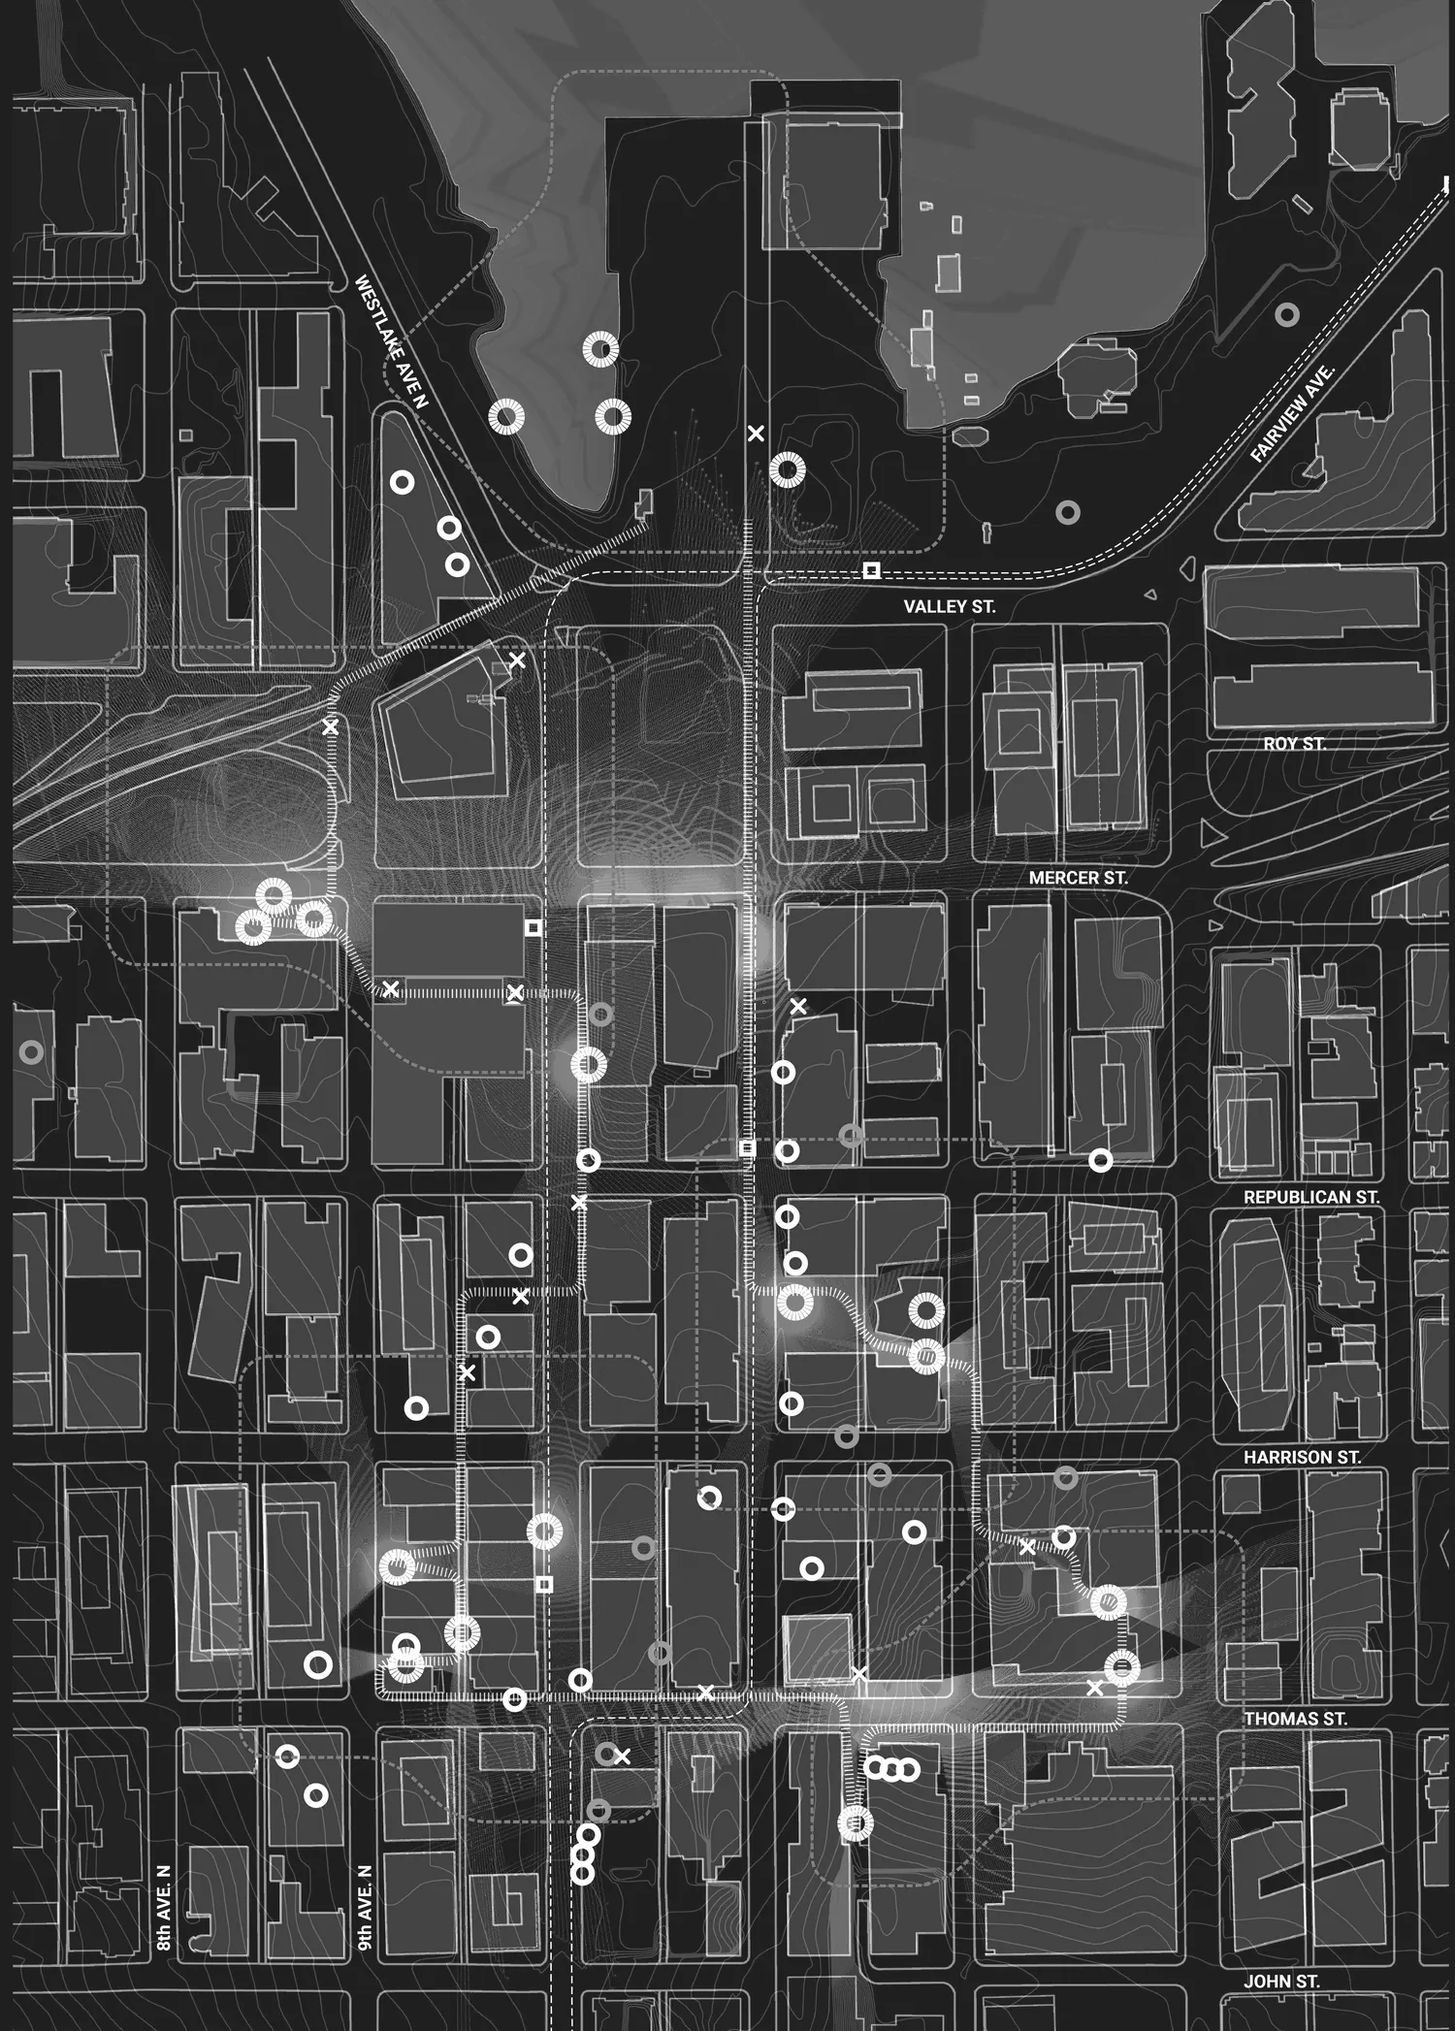
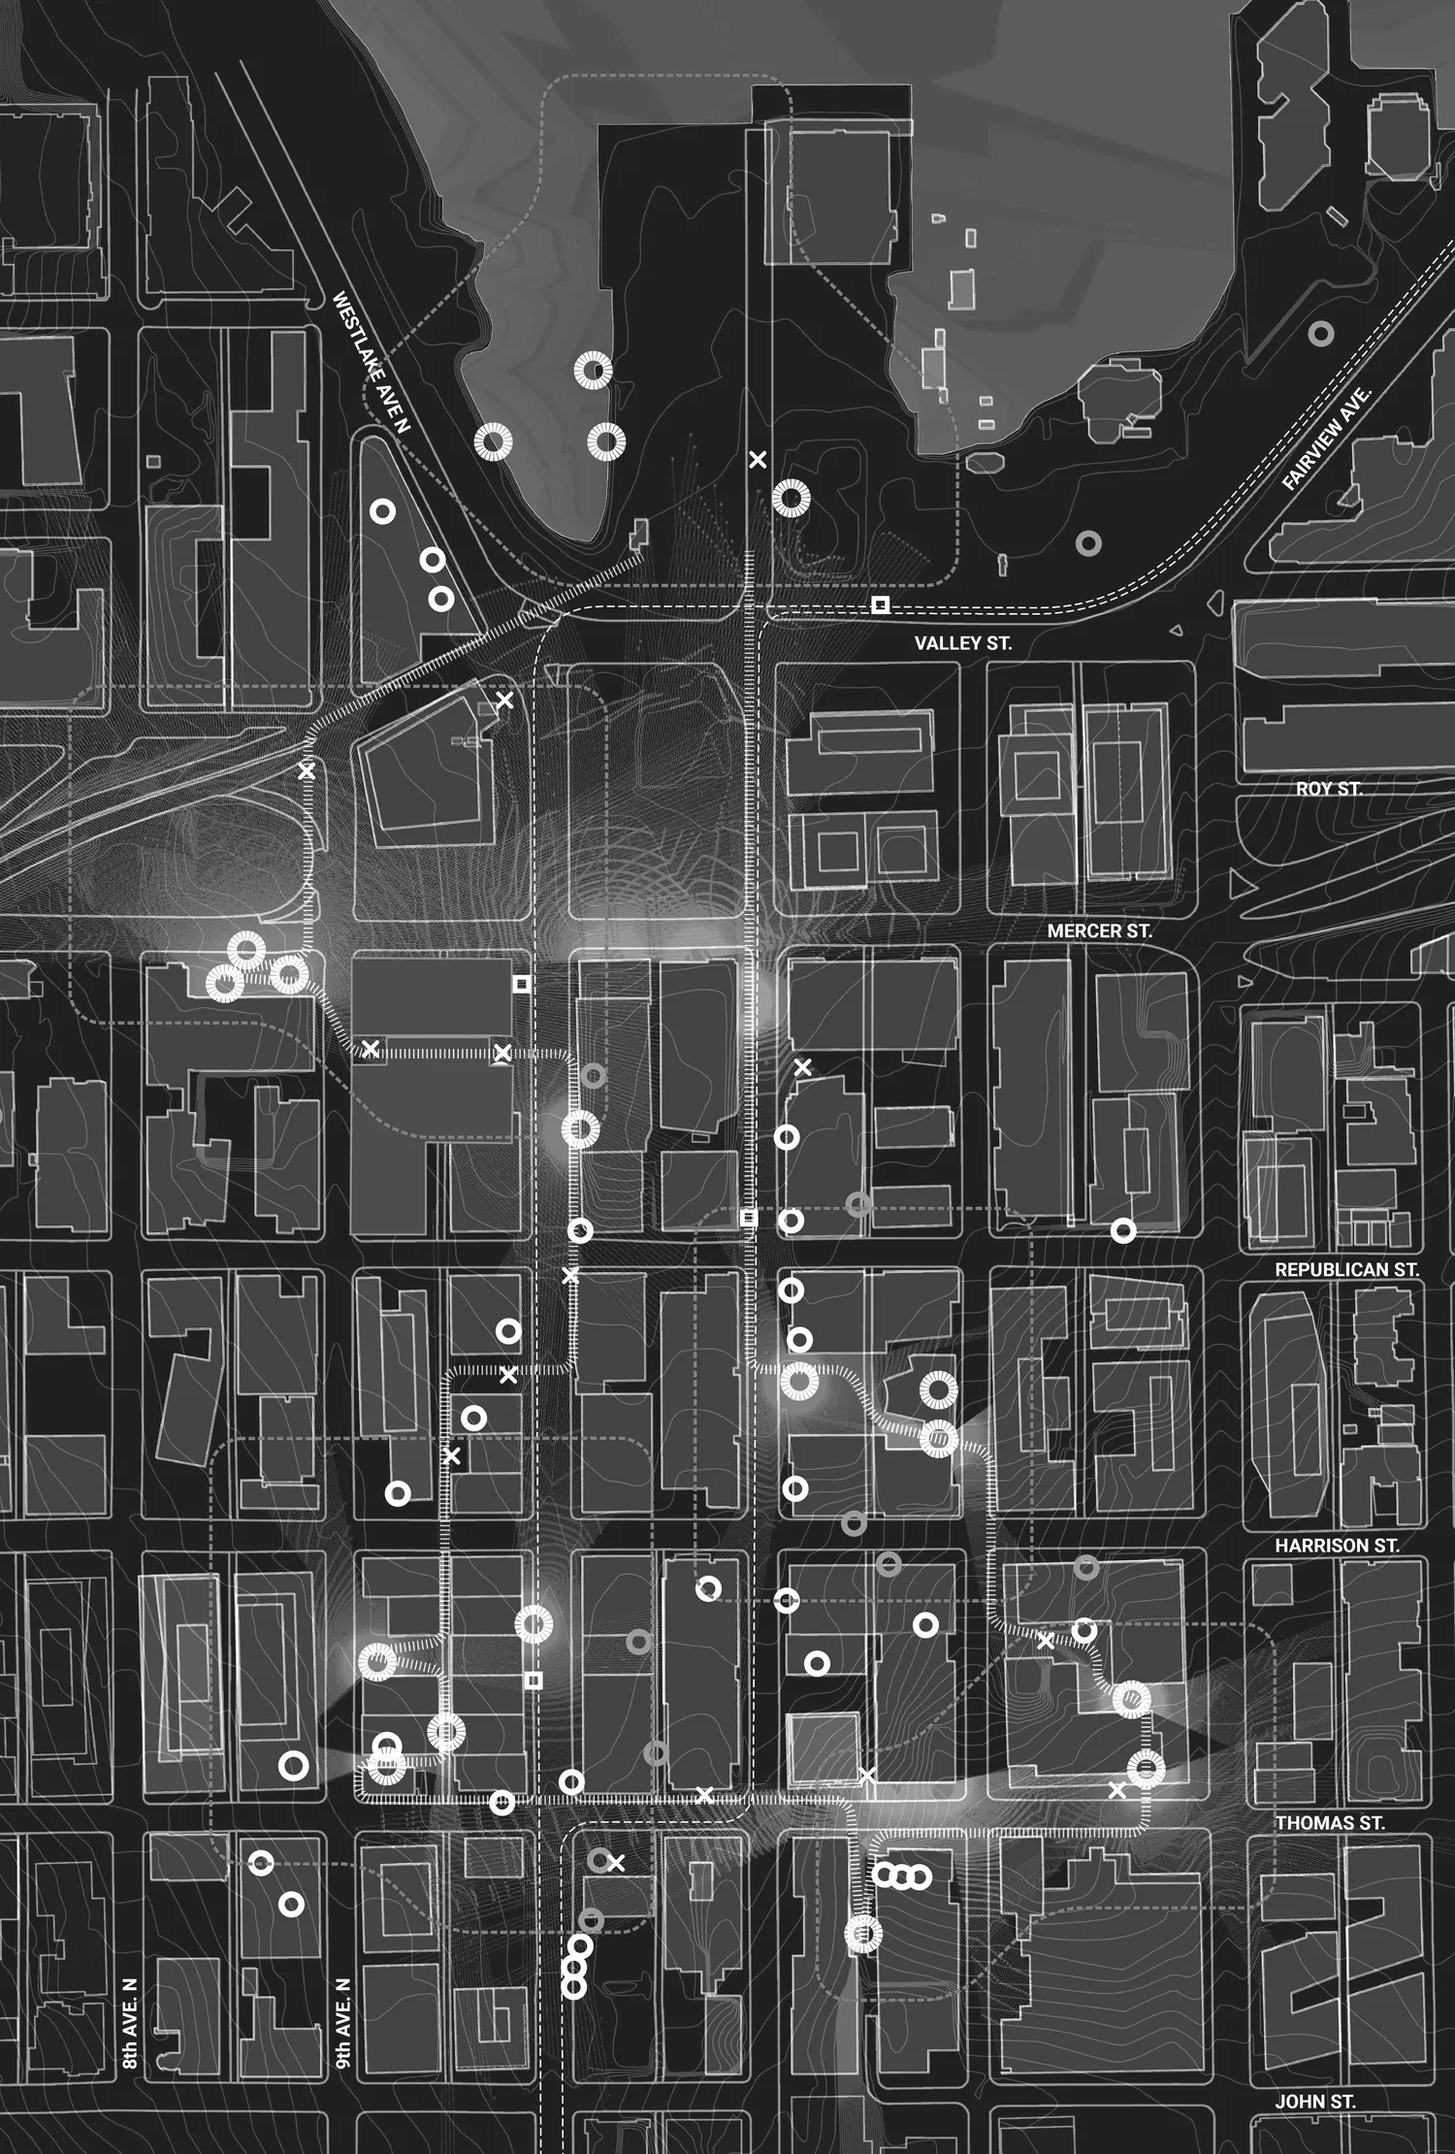
Doorways v2: section nav links, blurred active state, full-width Systems image
- Add PHILOSOPHY (up) and WORK SELECTION (down) section nav links matching the site style; wire onScrollUp/onScrollDown from page.tsx.

- Restyle cards: straight corners, top-left left-justified titles at a single configurable size (TITLE_FONT_SIZE), larger square buttons moved to the bottom-right (chevron for presets, external-link for links).

- Active state is now moody: overlay darkens to 0.70 and the image blurs, with crisp text above.

- Re-crop systems.webp from the original to drop the pillarbox dark bars so the plan fills the full card width (object-fit: cover).

- Point Project Minerva at https://minerva-lime.vercel.app/.

- Tune section vertical spacing (header/nav/grid gaps) via SECTION_PADDING_*, GRID_NAV_GAP, GRID_MAX_HEIGHT.

diff --git a/app/components/Doorways.tsx b/app/components/Doorways.tsx
@@ -6,37 +6,35 @@ import { useEffect, useRef, useState } from 'react';
 // CONFIGURABLE VARIABLES
 // ════════════════════════════════════════════════════════════════════════════
 
+// ── Typography (adjust these to tune title sizes) ──────────────────────
+const TITLE_FONT_SIZE = 'clamp(1.8rem, 2.8vw, 2.8rem)';  // all cards same size — was clamp(1.4rem, 2.2vw, 2.2rem)
+// ↑ Adjust this to change all card title sizes. Format: clamp(min, preferred, max)
+
 // ── Grid ──
-const GRID_GAP          = 6;          // px — gutter between cards
+const GRID_GAP          = 12;          // px — gutter between cards (1.5× original 6)
 const GRID_ASPECT_RATIO = '16 / 9';   // desktop grid aspect ratio
-const GRID_MAX_HEIGHT   = '85vh';     // prevent oversized cards on tall screens
-const GRID_MIN_HEIGHT   = 440;        // px — keep cards from collapsing on short screens
+const GRID_MAX_HEIGHT   = '80vh';     // leaves room for the nav links + gaps so the whole section fits one viewport
 const MOBILE_BREAKPOINT = 750;        // px — switch to stacked single-column layout
 
-// ── Overlay ──
-const OVERLAY_DEFAULT = 'rgba(0, 0, 0, 0.55)';  // darkens image (default/hover)
-const OVERLAY_ACTIVE  = 'rgba(0, 0, 0, 0.25)';  // lightens image (active)
+// ── Overlay (darkens image) ──
+const OVERLAY_DEFAULT = 'rgba(0, 0, 0, 0.55)';
+const OVERLAY_ACTIVE  = 'rgba(0, 0, 0, 0.70)';  // darker when active
 
-// ── Hover zoom ──
+// ── Image effects ──
 const HOVER_SCALE     = 1.05;
+const ACTIVE_BLUR     = 6;          // px — image blur when active
 const ZOOM_TRANSITION = '600ms ease';
+const FADE_DURATION   = '400ms';    // overlay / phrase / button / filter fades
 
 // ── Button ──
-const BUTTON_SIZE         = 40;   // px — square button
-const BUTTON_EDGE_PADDING = 16;   // px — from right and bottom card edges
-const BUTTON_RADIUS       = 6;    // px
+const BUTTON_SIZE = 50;   // px — square button (1.5× the original 40)
 
-// ── Fade transitions (overlay / phrase / button) ──
-const FADE_DURATION = '400ms';
-
-// ── Card ──
-const CARD_RADIUS       = 4;    // px — subtle rounding
-const TEXT_EDGE_PADDING = 28;   // px — left/right inset of the title + phrase block
-const TEXT_BLOCK_GAP    = 10;   // px — gap between title and phrase
-
-// ── Section ──
-const SECTION_PADDING_VERTICAL = 40;        // px — top & bottom section padding
-const SOLID_DARK               = '#1c1c1d'; // fallback background (no image)
+// ── Layout ──
+const CARD_CONTENT_PADDING   = 30;        // px — padding from card edge for text AND button
+const SECTION_PADDING_TOP    = 70;        // px — clears the ~48px sticky header with ~18px breathing room
+const SECTION_PADDING_BOTTOM = 50;        // px — small gap below the WORK SELECTION link
+const GRID_NAV_GAP           = 15;        // px — vertical space between the grid and the top/bottom nav links
+const SOLID_DARK             = '#1c1c1d'; // fallback background (no image)
 
 // ════════════════════════════════════════════════════════════════════════════
 // CARD DATA
@@ -52,10 +50,9 @@ interface DoorwayCard {
   url?:          string;
   presetName?:   string;
   gridArea:      string;
-  imagePath:     string;                 // '' → solid dark background
-  imagePosition: { x: string; y: string }; // object-position — adjustable per card
+  imagePath:     string;                    // '' → solid dark background
+  imagePosition: { x: string; y: string };  // object-position — adjustable per card
   buttonEnabled: boolean;
-  large?:        boolean;                // larger title (hero card)
 }
 
 const CARDS: DoorwayCard[] = [
@@ -64,12 +61,11 @@ const CARDS: DoorwayCard[] = [
     title:         'Project Minerva',
     phrase:        'My most recent work, an online platform I built to empower the creative process.',
     type:          'link',
-    url:           'https://minerva.enolvallina.com', // placeholder — user will confirm
+    url:           'https://minerva-lime.vercel.app/',
     gridArea:      'minerva',
     imagePath:     '/images/cardboard/minerva.webp',
     imagePosition: { x: '50%', y: '50%' },
     buttonEnabled: true,
-    large:         true,
   },
   {
     id:            'systems',
@@ -127,7 +123,7 @@ const mobileAspect = (id: string) => (id === 'minerva' ? '16 / 9' : '16 / 10');
 
 function ChevronDownIcon() {
   return (
-    <svg width="18" height="18" viewBox="0 0 24 24" fill="none"
+    <svg width="27" height="27" viewBox="0 0 24 24" fill="none"
       stroke="#1c1c1d" strokeWidth={2} strokeLinecap="round" strokeLinejoin="round" aria-hidden="true">
       <polyline points="6 9 12 15 18 9" />
     </svg>
@@ -136,12 +132,33 @@ function ChevronDownIcon() {
 
 function ExternalLinkIcon() {
   return (
-    <svg width="16" height="16" viewBox="0 0 24 24" fill="none"
+    <svg width="24" height="24" viewBox="0 0 24 24" fill="none"
       stroke="#1c1c1d" strokeWidth={2} strokeLinecap="round" strokeLinejoin="round" aria-hidden="true">
       <path d="M18 13v6a2 2 0 0 1-2 2H5a2 2 0 0 1-2-2V8a2 2 0 0 1 2-2h6" />
       <polyline points="15 3 21 3 21 9" />
       <line x1="10" y1="14" x2="21" y2="3" />
     </svg>
+  );
+}
+
+// ════════════════════════════════════════════════════════════════════════════
+// NAV LINK — matches the site's section nav style (DesignPhilosophy "Works ▼")
+// ════════════════════════════════════════════════════════════════════════════
+
+function NavLink({ direction, label, onClick }: { direction: 'up' | 'down'; label: string; onClick: () => void }) {
+  return (
+    <button
+      type="button"
+      onClick={onClick}
+      className="font-sans text-xs uppercase tracking-[0.2em] flex flex-col items-center gap-1 cursor-pointer"
+      style={{ background: 'none', border: 'none', padding: 0, color: '#1c1c1d', opacity: 0.85, transition: 'opacity 200ms ease' }}
+      onMouseEnter={e => { e.currentTarget.style.opacity = '0.6'; }}
+      onMouseLeave={e => { e.currentTarget.style.opacity = '0.85'; }}
+    >
+      {direction === 'up'   && <span style={{ lineHeight: 1 }}>▲</span>}
+      <span>{label}</span>
+      {direction === 'down' && <span style={{ lineHeight: 1 }}>▼</span>}
+    </button>
   );
 }
 
@@ -152,9 +169,13 @@ function ExternalLinkIcon() {
 interface DoorwaysProps {
   /** Triggers a preset selection + scroll to the project cards (handled by parent). */
   onPresetSelect: (presetName: string) => void;
+  /** Scroll up to the design-philosophy section. */
+  onScrollUp:     () => void;
+  /** Scroll down to the project-selection (Work Selection) section. */
+  onScrollDown:   () => void;
 }
 
-export default function Doorways({ onPresetSelect }: DoorwaysProps) {
+export default function Doorways({ onPresetSelect, onScrollUp, onScrollDown }: DoorwaysProps) {
   const [activeCardId, setActiveCardId] = useState<string | null>(null);
   const [hoveredId,    setHoveredId]    = useState<string | null>(null);
   const [isMobile,     setIsMobile]     = useState(false);
@@ -200,15 +221,15 @@ export default function Doorways({ onPresetSelect }: DoorwaysProps) {
 
   // ── Render one card (shared between grid & stacked layouts) ──
   const renderCard = (card: DoorwayCard) => {
-    const isActive  = activeCardId === card.id;
-    const isHovered = hoveredId === card.id;
-    const zoomed    = isActive || (canHover && isHovered);
+    const isActive   = activeCardId === card.id;
+    const isHovered  = hoveredId === card.id;
+    const zoomed     = isActive || (canHover && isHovered);
     const showButton = card.buttonEnabled && (card.type === 'preset' || !!card.url);
 
     const cardStyle: React.CSSProperties = {
       position:     'relative',
       overflow:     'hidden',
-      borderRadius: CARD_RADIUS,
+      borderRadius: 0,            // straight corners
       cursor:       'pointer',
       background:   SOLID_DARK,
       ...(isMobile
@@ -218,12 +239,12 @@ export default function Doorways({ onPresetSelect }: DoorwaysProps) {
 
     const buttonStyle: React.CSSProperties = {
       position:       'absolute',
-      right:          BUTTON_EDGE_PADDING,
-      bottom:         BUTTON_EDGE_PADDING,
+      right:          CARD_CONTENT_PADDING,
+      bottom:         CARD_CONTENT_PADDING,
       width:          BUTTON_SIZE,
       height:         BUTTON_SIZE,
       background:     'rgba(255, 255, 255, 0.95)',
-      borderRadius:   BUTTON_RADIUS,
+      borderRadius:   0,          // square corners
       border:         'none',
       padding:        0,
       display:        'flex',
@@ -262,9 +283,9 @@ export default function Doorways({ onPresetSelect }: DoorwaysProps) {
               height:         '100%',
               objectFit:      'cover',
               objectPosition: `${card.imagePosition.x} ${card.imagePosition.y}`,
-              filter:         'grayscale(100%)',
+              filter:         isActive ? `grayscale(100%) blur(${ACTIVE_BLUR}px)` : 'grayscale(100%)',
               transform:      `scale(${zoomed ? HOVER_SCALE : 1})`,
-              transition:     `transform ${ZOOM_TRANSITION}`,
+              transition:     `transform ${ZOOM_TRANSITION}, filter ${FADE_DURATION} ease`,
               userSelect:     'none',
               WebkitUserDrag: 'none',
               pointerEvents:  'none',
@@ -283,27 +304,27 @@ export default function Doorways({ onPresetSelect }: DoorwaysProps) {
           }}
         />
 
-        {/* Title + phrase — vertically centered; title never moves (phrase space reserved) */}
+        {/* Title + phrase — anchored top-left, left-justified; title never moves */}
         <div
           style={{
-            position:      'absolute',
-            top:           '50%',
-            transform:     'translateY(-50%)',
-            left:          TEXT_EDGE_PADDING,
-            right:         TEXT_EDGE_PADDING,
-            display:       'flex',
-            flexDirection: 'column',
-            gap:           TEXT_BLOCK_GAP,
-            pointerEvents: 'none',
+            position:       'absolute',
+            inset:          0,
+            padding:        CARD_CONTENT_PADDING,
+            display:        'flex',
+            flexDirection:  'column',
+            justifyContent: 'flex-start',
+            alignItems:     'flex-start',
+            pointerEvents:  'none',
           }}
         >
           <h3
             style={{
               margin:     0,
-              fontFamily: 'var(--font-playfair)', // serif — @theme inline doesn't emit --font-serif to :root, so use the inherited next/font var
+              textAlign:  'left',
+              fontFamily: 'var(--font-playfair)', // project serif (see Doorways font note)
               fontWeight: 700,
               color:      '#ffffff',
-              fontSize:   card.large ? 'clamp(1.8rem, 3vw, 3rem)' : 'clamp(1.4rem, 2.2vw, 2.2rem)',
+              fontSize:   TITLE_FONT_SIZE, // consistent across all cards — see TITLE_FONT_SIZE at top
               lineHeight: 1.1,
               textShadow: '0 2px 8px rgba(0, 0, 0, 0.3)',
             }}
@@ -313,12 +334,14 @@ export default function Doorways({ onPresetSelect }: DoorwaysProps) {
           <p
             style={{
               margin:     0,
-              maxWidth:   '80%',
-              fontFamily: 'var(--font-roboto)', // sans — see note on h3 above
-              fontSize:   'clamp(0.75rem, 1.1vw, 0.95rem)',
+              marginTop:  8,
+              textAlign:  'left',
+              maxWidth:   '85%',
+              fontFamily: 'var(--font-roboto)', // project sans
+              fontSize:   'clamp(0.75rem, 1vw, 0.9rem)',
               lineHeight: 1.45,
-              color:      card.id === 'writing' ? 'rgba(255, 255, 255, 0.6)' : 'rgba(255, 255, 255, 0.85)',
-              opacity:    isActive ? 1 : 0,
+              color:      'rgba(255, 255, 255, 0.85)',
+              opacity:    isActive ? (card.id === 'writing' ? 0.6 : 1) : 0,
               transition: `opacity ${FADE_DURATION} ease`,
             }}
           >
@@ -326,7 +349,7 @@ export default function Doorways({ onPresetSelect }: DoorwaysProps) {
           </p>
         </div>
 
-        {/* Button — preset (chevron) or link (external) */}
+        {/* Button — bottom-left; preset (chevron) or link (external) */}
         {showButton && (
           card.type === 'preset' ? (
             <button
@@ -358,7 +381,7 @@ export default function Doorways({ onPresetSelect }: DoorwaysProps) {
     );
   };
 
-  // ── Layout container ──
+  // ── Grid / stack container ──
   const gridStyle: React.CSSProperties = isMobile
     ? {
         width:         '100%',
@@ -375,7 +398,6 @@ export default function Doorways({ onPresetSelect }: DoorwaysProps) {
         gap:                 GRID_GAP,
         aspectRatio:         GRID_ASPECT_RATIO,
         maxHeight:           GRID_MAX_HEIGHT,
-        minHeight:           GRID_MIN_HEIGHT,
       };
 
   const orderedCards = isMobile
@@ -386,22 +408,30 @@ export default function Doorways({ onPresetSelect }: DoorwaysProps) {
     <section
       id="doorways"
       style={{
-        position:       'relative',
         background:     '#ffffff',
         minHeight:      '100vh',
+        boxSizing:      'border-box',
         display:        'flex',
         flexDirection:  'column',
         alignItems:     'center',
-        justifyContent: 'center',
+        justifyContent: 'space-between',
+        gap:            GRID_NAV_GAP,
         paddingLeft:    'var(--page-margin)',
         paddingRight:   'var(--page-margin)',
-        paddingTop:     SECTION_PADDING_VERTICAL,
-        paddingBottom:  SECTION_PADDING_VERTICAL,
+        paddingTop:     SECTION_PADDING_TOP,
+        paddingBottom:  SECTION_PADDING_BOTTOM,
       }}
     >
+      {/* PHILOSOPHY ▲ — scroll up */}
+      <NavLink direction="up" label="Philosophy" onClick={onScrollUp} />
+
+      {/* Bento grid */}
       <div ref={gridRef} style={gridStyle}>
         {orderedCards.map(renderCard)}
       </div>
+
+      {/* WORK SELECTION ▼ — scroll down */}
+      <NavLink direction="down" label="Work Selection" onClick={onScrollDown} />
     </section>
   );
 }

diff --git a/app/page.tsx b/app/page.tsx
@@ -516,6 +516,8 @@ export default function Home() {
             .find(p => p.name === presetName);
           if (preset) handleRadarPlay(preset.values, presetName);
         }}
+        onScrollUp={() => scrollToSection('design-philosophy')}
+        onScrollDown={() => scrollToSection('project-selection')}
       />
 
       {/* ── Section 5: Project Selection (Works) ── */}
